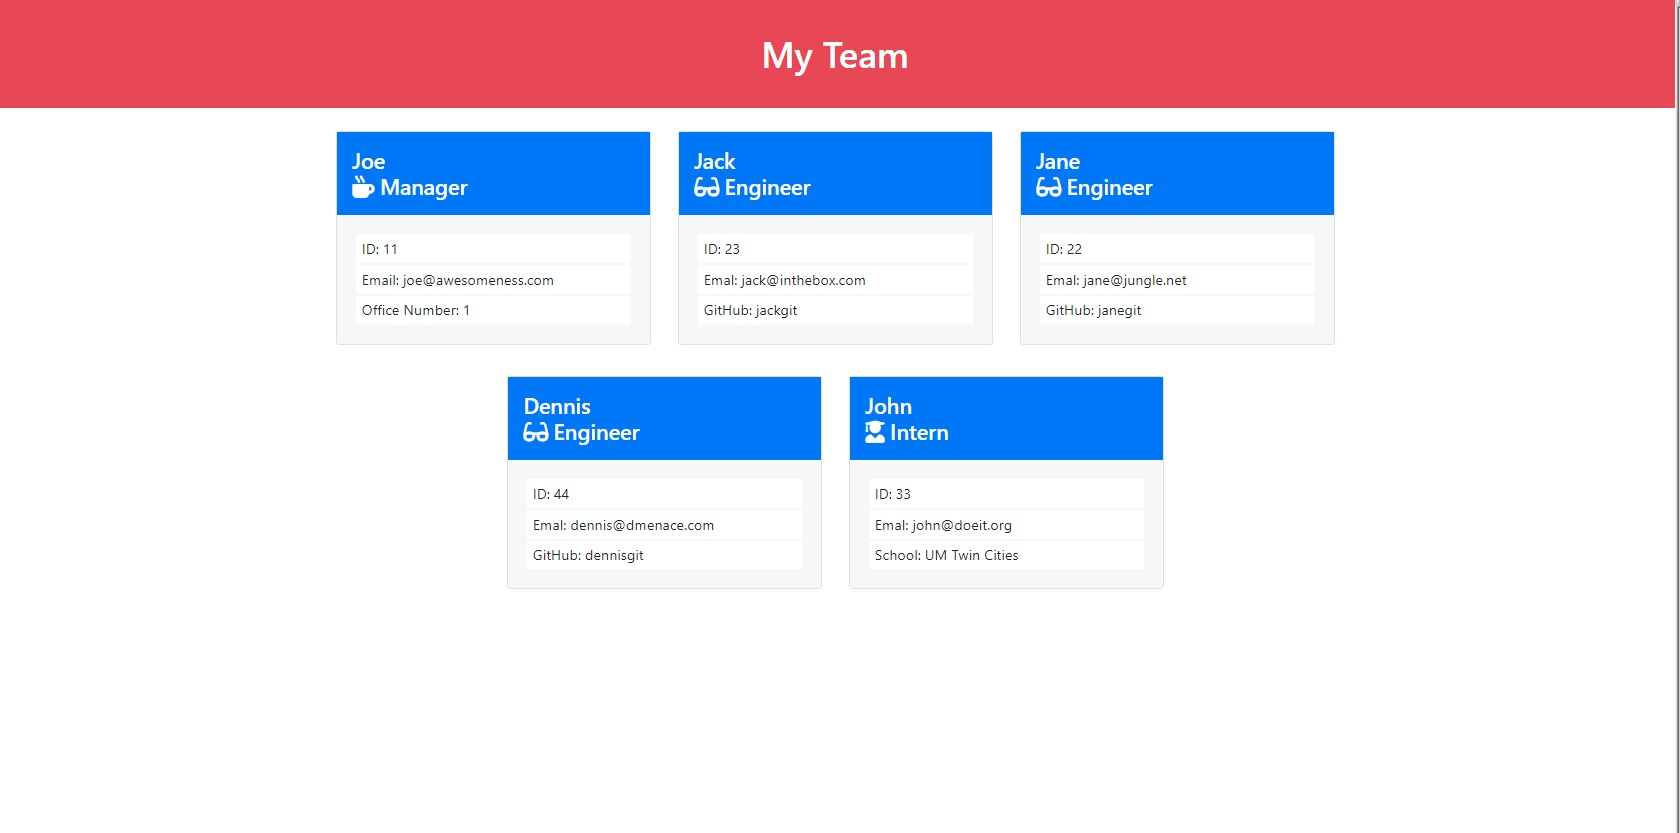
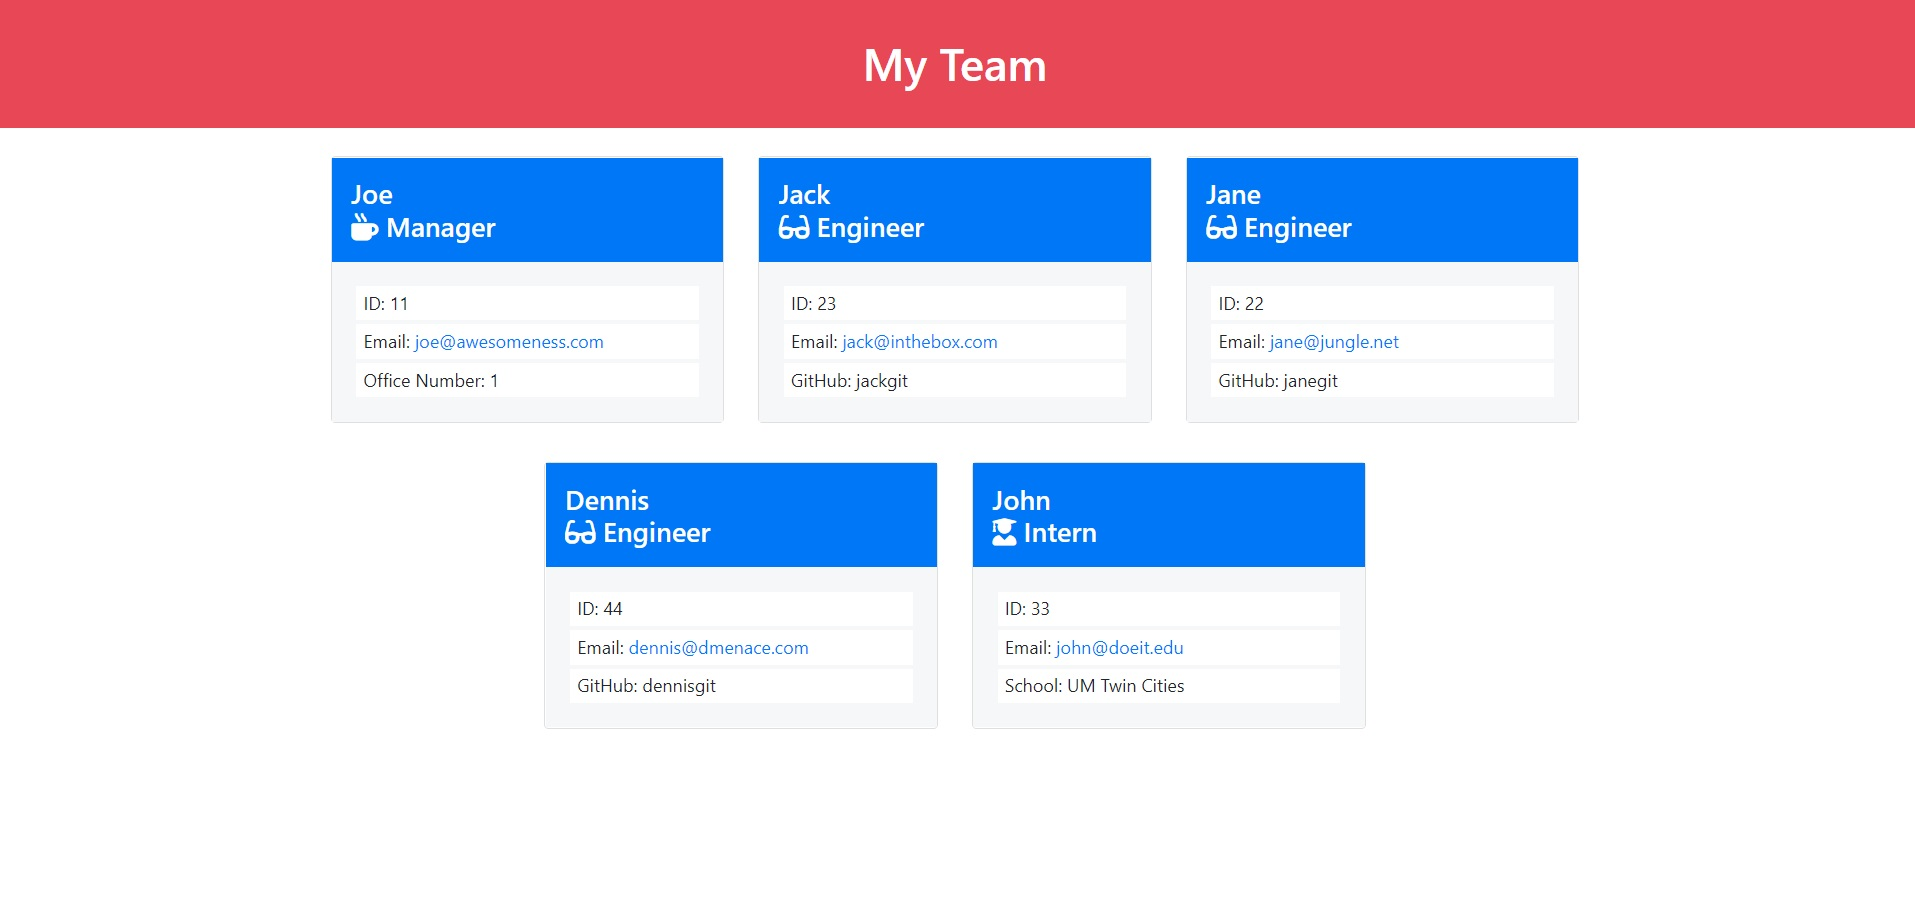
Made email clickable with mailto in the HTML page then updated README for the snapshot

Changed region(s): [[0.0, 0.0, 1.0, 1.0], [0.4333, 0.0312, 0.5571, 0.0936]]

diff --git a/dist/index.html b/dist/index.html
@@ -24,7 +24,7 @@
             </h4>
             <div class="card-body">
               <p>ID: 11</p>
-              <p>Email: joe@awesomeness.com</p>
+              <p>Email: <a href="mailto:joe@awesomeness.com">joe@awesomeness.com</a></p>
               <p>Office Number: 1</p>
             </div>
           </div>
@@ -38,7 +38,7 @@
             </h4>
             <div class="card-body">
               <p>ID: 23</p>
-              <p>Emal: jack@inthebox.com</p>
+              <p>Email: <a href="mailto:jack@inthebox.com">jack@inthebox.com</a></p>
               <p>GitHub: jackgit</p>
             </div>
           </div>
@@ -51,7 +51,7 @@
             </h4>
             <div class="card-body">
               <p>ID: 22</p>
-              <p>Emal: jane@jungle.net</p>
+              <p>Email: <a href="mailto:jane@jungle.net">jane@jungle.net</a></p>
               <p>GitHub: janegit</p>
             </div>
           </div>
@@ -64,7 +64,7 @@
             </h4>
             <div class="card-body">
               <p>ID: 44</p>
-              <p>Emal: dennis@dmenace.com</p>
+              <p>Email: <a href="mailto:dennis@dmenace.com">dennis@dmenace.com</a></p>
               <p>GitHub: dennisgit</p>
             </div>
           </div>
@@ -78,7 +78,7 @@
             </h4>
             <div class="card-body">
               <p>ID: 33</p>
-              <p>Emal: john@doeit.org</p>
+              <p>Email: <a href="mailto:john@doeit.edu">john@doeit.edu</a></p>
               <p>School: UM Twin Cities</p>
             </div>
           </div>

diff --git a/src/html-template.js b/src/html-template.js
@@ -41,7 +41,7 @@ function managerSection(manager) {
             </h4>
             <div class="card-body">
               <p>ID: ${managerArr.getId()}</p>
-              <p>Email: ${managerArr.getEmail()}</p>
+              <p>Email: <a href="mailto:${managerArr.getEmail()}">${managerArr.getEmail()}</a></p>
               <p>Office Number: ${managerArr.getOfficeNumber()}</p>
             </div>
           </div>
@@ -62,7 +62,7 @@ function engineerSection(engineer) {
             </h4>
             <div class="card-body">
               <p>ID: ${engineerArr.getId()}</p>
-              <p>Emal: ${engineerArr.getEmail()}</p>
+              <p>Email: <a href="mailto:${engineerArr.getEmail()}">${engineerArr.getEmail()}</a></p>
               <p>GitHub: ${engineerArr.getGithub()}</p>
             </div>
           </div>
@@ -85,7 +85,7 @@ function internSection(intern) {
             </h4>
             <div class="card-body">
               <p>ID: ${internArr.getId()}</p>
-              <p>Emal: ${internArr.getEmail()}</p>
+              <p>Email: <a href="mailto:${internArr.getEmail()}">${internArr.getEmail()}</a></p>
               <p>School: ${internArr.getSchool()}</p>
             </div>
           </div>

diff --git a/README.md b/README.md
@@ -28,7 +28,7 @@
 
   
   * Sample Team Chart Page <br />
- ![sample-page](https://user-images.githubusercontent.com/90885263/146714764-349c0a82-1a93-490e-9bc3-4b1060586202.jpg)
+ ![sample-page](https://user-images.githubusercontent.com/90885263/148790865-009c3d69-19c5-425e-8d57-ea5500a1c0d5.jpg)
  
   ## Test <a id="test"></a>
   In order to test this app, please do the following: <br />
